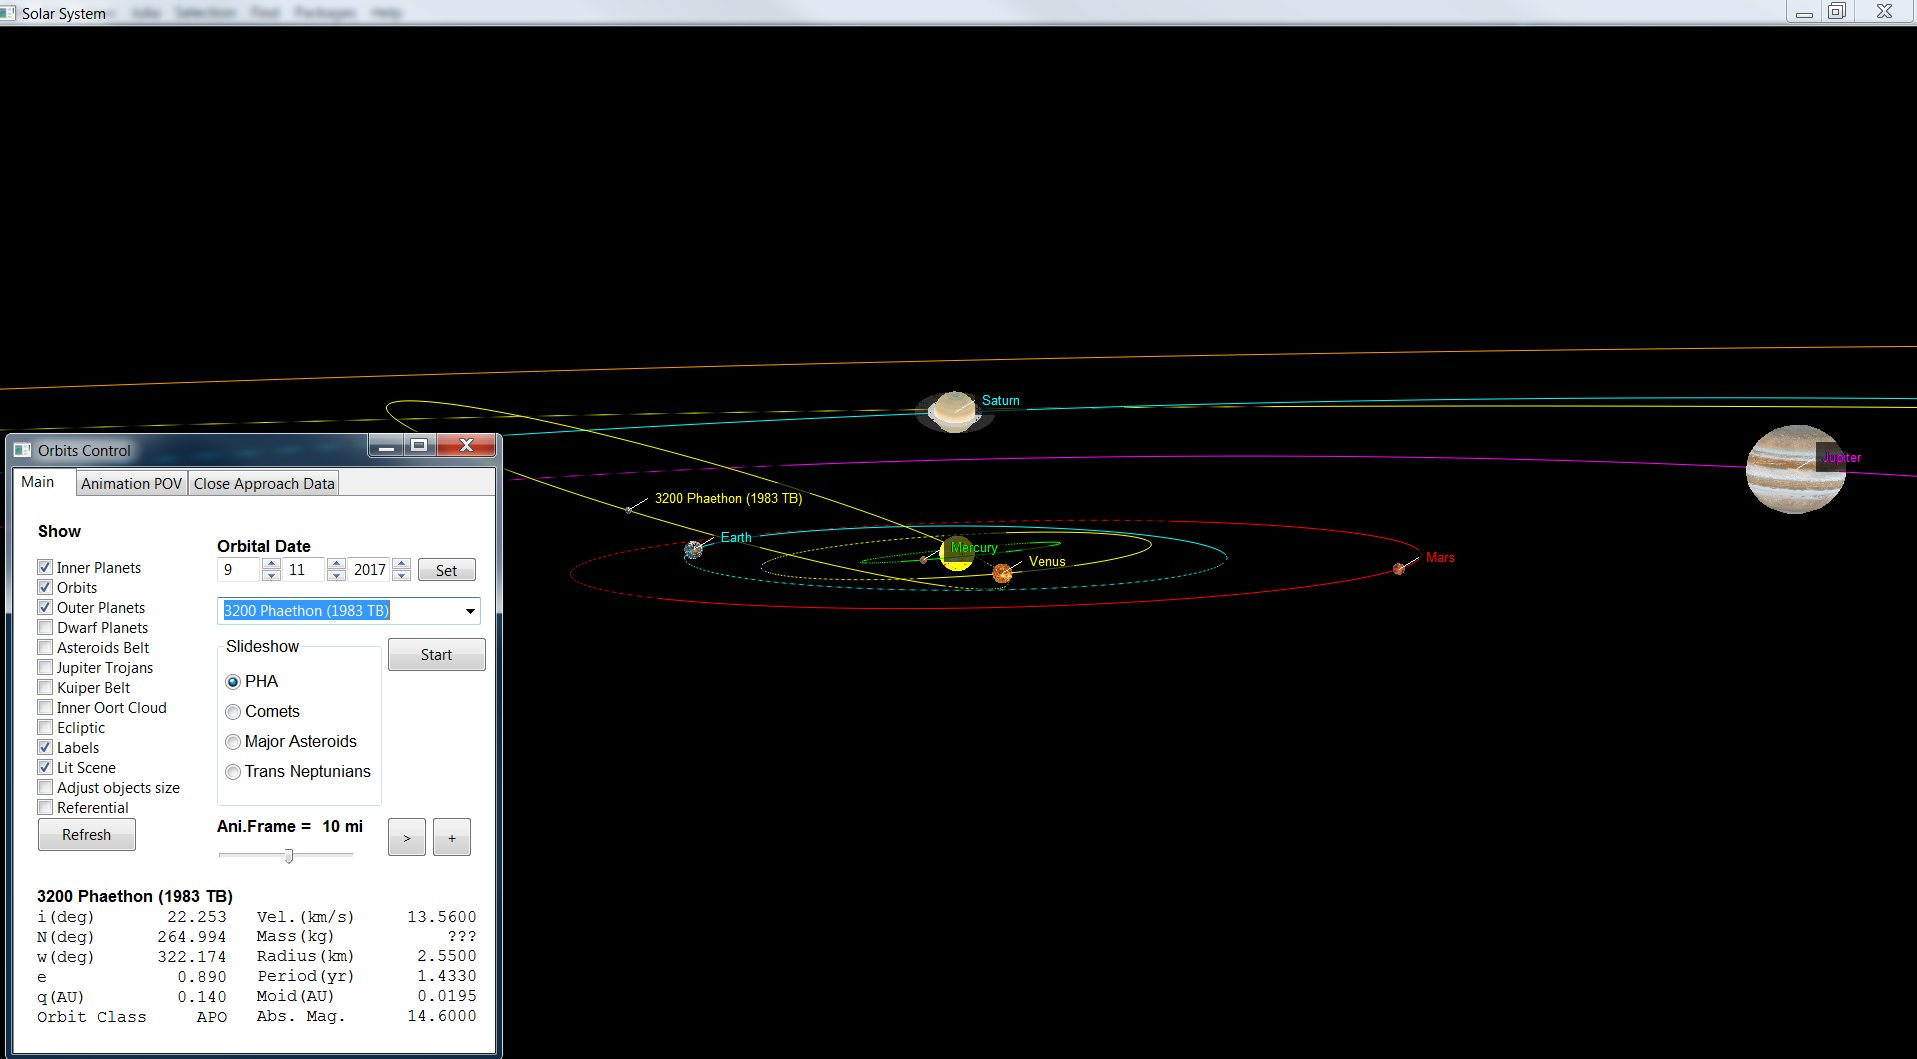
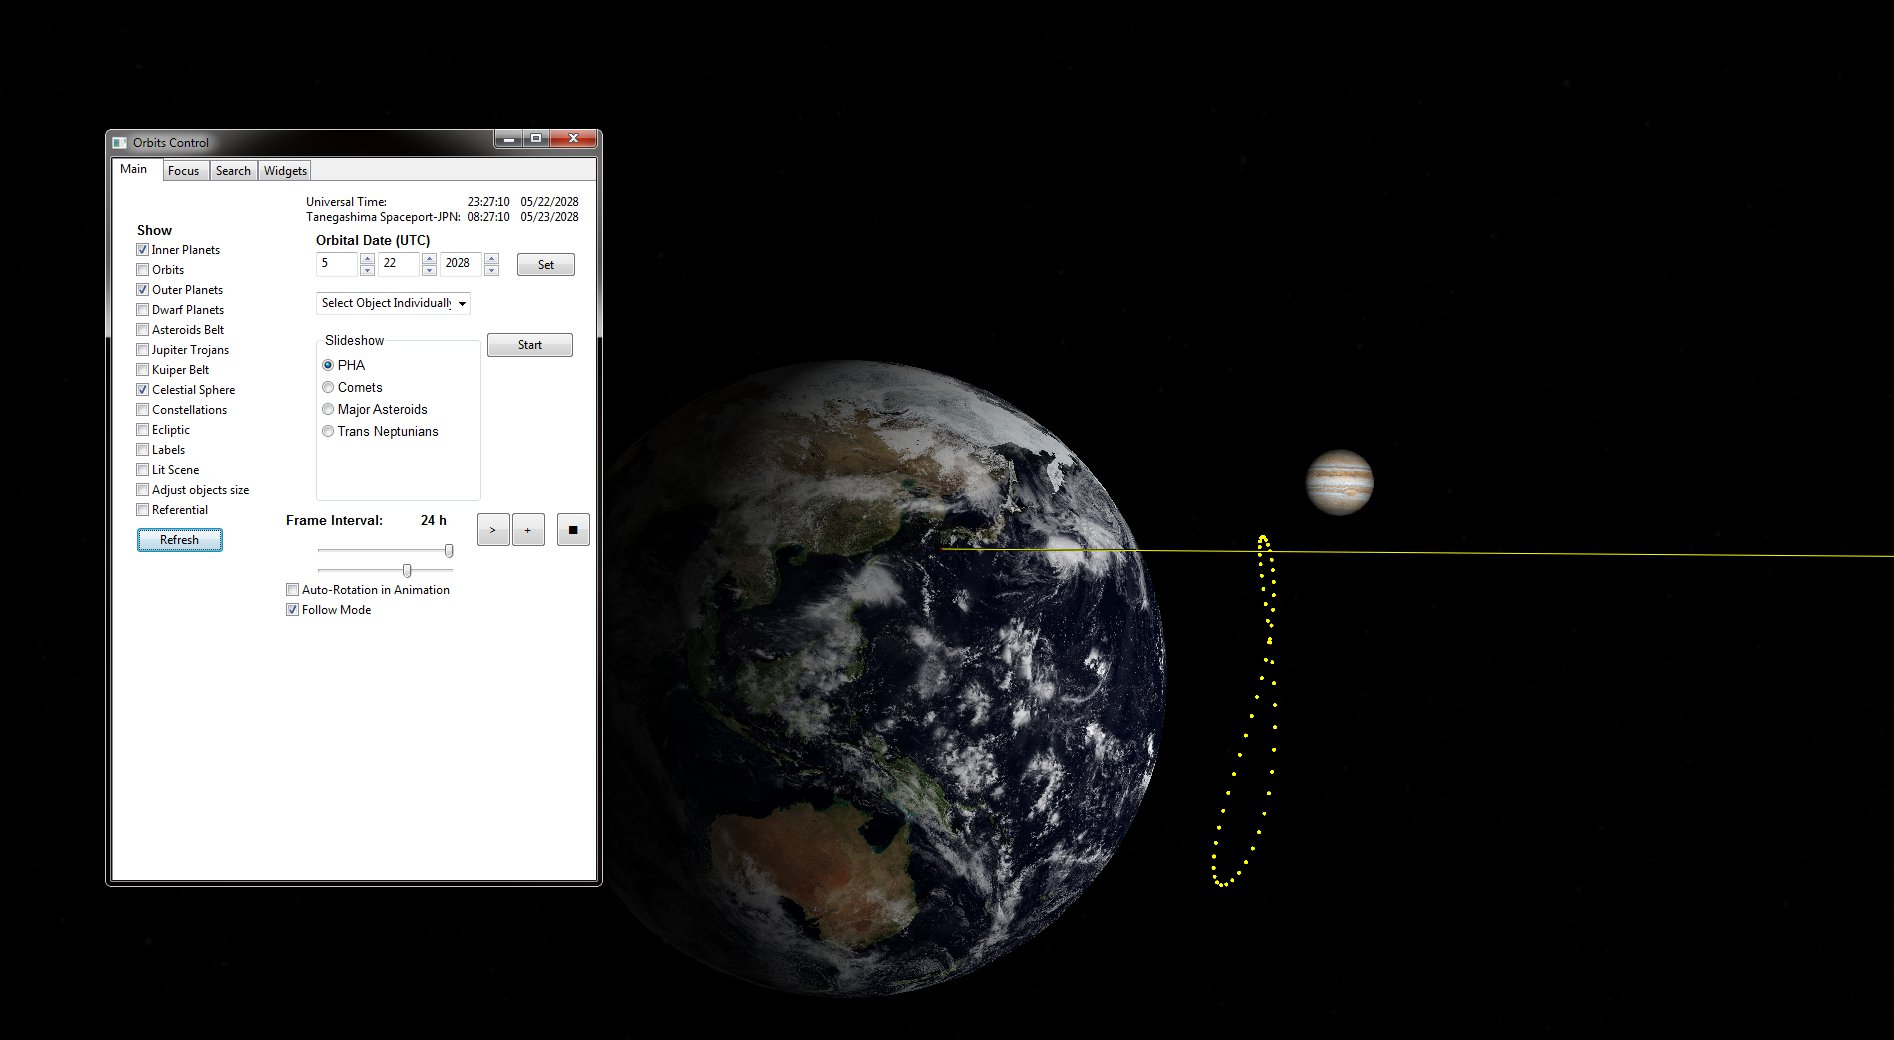
updated readme with latest changes

diff --git a/README.md b/README.md
@@ -1,29 +1,29 @@
 # Orbital
 
-"Orbital" is an accurate interactive 3D representation of the solar system featuring inner and outer planets, asteroids, comets and Trans-Neptunian objects. It also includes the asteroid belt, Jupiter Trojans, Kuiper belt, the inner Oort cloud and daily "Close Approach" bodies from the Jet Propulsion Laboratory database.
+"Orbital" is an accurate interactive 3D representation of the solar system featuring inner and outer planets, asteroids, comets and Trans-Neptunian objects. It also includes the asteroid belt, Jupiter Trojans, Kuiper belt, the celestial sphere and a constellations map. 
 
-The 3D orbits of major objects in the solar system are rendered and can be zoomed in and out as well as rotated. Each object is located on its actual orbit position at the time of rendering. For a demo of the simulation go to https://youtu.be/WjiwySvZY3g. (Note: When the video was made, body rotation was not implemented yet, hence you won't see the planets spinning, but this repository includes the code that implements body rotation).
+The 3D orbits of the major planets are rendered and because the window is interactive, the user can zoom in and out as well as rotate the scene. Each object is located on its actual orbit position at the time of rendering. For a demo of the simulation go to https://youtu.be/WjiwySvZY3g. (Note: When the video was made, body rotation was not implemented yet, hence you won't see the planets spinning, but this repository includes the code that implements body rotation).
 
 # Interacting with the simulation:
 
 To zoom in/out: click on both mouse buttons and drag the mouse forward or backward.
 To rotate the scene: click on the mouse left button only and drag the mouse sideways.
 
-The data was collected from the JPL Small-Body Database Search Engine and the Nasa planetary factsheets. The Celestial mechanic concepts required to develop this program can be found in the Roger Bates's book "Introduction to Astrodynamics", as well as the document "Keplerian Elements for Approximate Positions of the Major Planets" (E.M. Standish from JPL Caltech).
+Objects listed in the drop down were collected from the JPL Small-Body Database Search Engine and the Nasa planetary factsheets. The Celestial mechanics concepts required to develop this program can be found in the Roger Bates's book "Introduction to Astrodynamics", as well as the document "Keplerian Elements for Approximate Positions of the Major Planets" (E.M. Standish from JPL Caltech).
 
 Keep in mind that
 
-	- All distances between each object and the sun are proportional to the actual distance.
+	- Distances between each object and the sun are proportional to the actual distance.
 	- Objects sizes are NOT proportional to their actual size (this is by design in order to
 	  view all objects properly).
-	- Asteroid belt, Kuiper belt, Jupiter Trojans and Oort Cloud are included for illustration purpose
+	- Asteroid belt, Kuiper belt, Jupiter Trojans are included for illustration purpose
 	  only. Even though their size and thickness is somehow proportional to their actual dimension, the
 	  distribution pattern within the belt is purely random/aesthetic.
 
 # Platform:
 
 	python 2.7.9
-	vpython 6
+	vpython 6.5
 	wxpython 3.0
 
 you will also need the following libraries:
@@ -33,7 +33,7 @@ you will also need the following libraries:
 
 To launch the application, go to the folder where the project was downloaded and type:
 
-	> python2.7.exe solarsys.py
+	> python2.7.exe orbital.py
 
 The vpython display window and the Orbital control modal window will take only a few seconds to load. PHA, Asteroids, Comets and trans-Neptunian objects orbits get calculated and rendered as needed, but inner and outter planets orbits are displayed right away and can be interacted with. The constant MAX_OBJECTS in solarsys.py specifies the upper limit of objects to load per data file.
 
@@ -66,27 +66,39 @@ Legend is:
 
 You have the ability to change the Point Of View (POV) to reset the center of the scene on any object of your choice. By default, the POV is focused on the Sun, but it can be set on any of the major inner / outer planets, the dwarf planets - or - on the body that you are currently studying.
 
-<img src="./screenshot-3.jpg">
+<img src="./screenshot-2.jpg">
 
-# Files:
-
-	solarsys.py: 	Main file
-	orbital.py:  	Orbits trajectory and belts calculations classes
-	controls.py:	Orbital controller class used in the "Orbital Control" user interface
-	planetsdata.py:	Orbital elements for major planets and belts
-	numberfmt: 	String precision formatting
+# Main Files:
+```text
+orbital.py ....................... Orbital entry point
+celestial/__main__.py ............ bootloader
+celestial/camera.py .............. Camera movements
+celestial/controls.py ............ Orbital controller class used in the "Orbital Control" user interface
+celestial/location.py ............ Earth location functions
+celestial/numberfmt.py ........... String precision formatting
+celestial/objects.py ............. Library of 3D objects
+celestial/orbit3D.py ............. Orbit trajectories and belts calculations classes
+celestial/orbitalLIB.py .......... library class allowing to create an animation (story) programmatically
+celestial/planetsdata.py ......... Orbital elements for major planets and belts
+celestial/rate_func.py ........... Rate functions defined for animations
+celestial/referentials.py ........ Planet Referentials classes
+celestial/utils.py ............... Linear Algebra utility functions
+celestial/video.py ............... Animation recording class
+celestial/vpython_interface.py ... Modifies vpython "display" class
+celestial/widgets.py ............. Earth widgets classes
+```
 
 # Close Approach Data:
 
-"Orbital" allows you to find out which asteroids "close encounters" with earth are happening on a daily basis. If you click on the "Close Approach Data" tab, you will be able to directly fetch from the JPL database the list of objects that are at their closest position to earth for the current day.
+"Orbital" allows you to find out which asteroids "close encounters" with earth are happening on a daily basis. If you click on the "Search" tab, the "Close Approach Data" section will directly fetch from the JPL database the list of objects that are at their closest position to earth for the current day (If you would rather look for information on a particular object, use the Search input field in the lower section).
 
-<img src="./screenshot-2.jpg">
+<img src="./screenshot-3.jpg">
 
 Once the list has been downloaded, you may also get the list from the previous or the next day. Double clicking on a row in that list will automatically display the orbit and position of the corresponding object, as well as switch back to the "Main" tab to detail its orbital elements.
 
 Note: The autoscale feature in vpython is a bit erratic. If you are in a very expansive view that includes far objects such as dwarf planets and also closer to the sun objects like inner planets, unchecking the far objects and refreshing the scene may "autoscale" you back inside the sun (even though everything looks black). To eliminate the problem, simply perform a zoom out.
 
-The planets and the sun rotate on their axis in a realistic way, according to their rotation rate. You may note that Venus and Pluto have a retrograde motion and it is because of their north pole reversion. A good way to clarify what is happening is to check the "Show Local Referential" checkbox in the"Animation POV" tab. Also note the great range of rotation rate among the planets, from really fast (the outter planets) to really slow (Venus).
+The planets and the sun rotate on their axis in a realistic way, according to their rotation rate. You may note that Venus and Pluto have a retrograde motion and it is because of their north pole reversion. A good way to clarify what is happening is to check the "Show Local Referential" checkbox in the"Animation POV" tab. Also note the great range of rotation rates among the planets, from really fast (the outter planets) to really slow (Venus).
 
 List of a few close encounters between Potentially Harzardous Asteroids and earth:
 
@@ -96,22 +108,51 @@ List of a few close encounters between Potentially Harzardous Asteroids and eart
 	2004 XK50 	12/24/2025
 
 
-# How to install the platform on Windows computer:
+# How to install 
+Orbital creates graphics though the vpython module. because *vpython* has evolved into a web based system, support for the standalone version has been neglected and never got uograded to be compatible with python3.x. Instead python2.7 must be used. 
 
-	1) Install python2.7 64 bits:
-	go to "https://www.python.org/downloads/release/python-279/" and under "Files",
-	click on "Windows x86-64 MSI installer". Download the installer and run it.
+### on Windows computer:
 
-	use the default install configuration. Your python folder should be
-	in c:\python27
+Install python2.7 64 bits:
 
-	If you get the error "error: Microsoft Visual C++ 9.0 is required. Get it from http://aka.ms/vcpython27"
-	then from "https://www.microsoft.com/en-us/download/confirmation.aspx?id=44266" download the VC runtime
-	installer: VCForPython27.msi and run it to install the missing runtime library. Then try to run the python27
-	installer again to finish installing python.
+go to "https://www.python.org/downloads/release/python-279/" and under "Files",
+click on "Windows x86-64 MSI installer". Download the installer and run it.
 
-	Add "c:\python27" and "c:\python27\scripts" to your PATH environment variable
+use the default install configuration. Your python folder should be
+in **c:\python27**
 
+If you get the error "error: Microsoft Visual C++ 9.0 is required. Get it from http://aka.ms/vcpython27"
+then from "https://www.microsoft.com/en-us/download/confirmation.aspx?id=44266" download the VC runtime
+installer: VCForPython27.msi and run it to install the missing runtime library. Then try to run the python27
+installer again to finish installing python.
+
+Add *c:\python27* and *c:\python27\scripts* to your **PATH** environment variable
+
+For hassle free install, it is recommended to do the manual installation instead of using the pip command. This 
+will garantee to install libraries compatible with python 2.7 and vpython 6.5. Simply go to the "manual-install" folder:
+```text
+vis.zip
+Polygon.zip
+cv2.zip
+numpy.zip
+pyautogui.zip
+pytz.zip
+vpython.zip
+wx-python-3.0-msw.zip
+```
+Then unzip each package into the python2.7 **site-packages** folder. 
+
+Create an environment variable **PYTHONPATH** that contains the absolute path to the cvisual.pyd file. Assuming python2.7 is installed in c:\python2.7, that would be:
+
+**PYTHONPATH=c:\python2.7\Lib\site-packages\visual_common**
+
+To start the simulation, from the orbital folder type:
+
+```text
+c:\python2.7\python orbital.py
+```
+
+<!--
 	2) Install Numpy and Scipy libraries:
 	go to http://www.lfd.uci.edu/~gohlke/pythonlibs
 	- download numpy+mkl: "numpy-1.13.1+mkl-cp27-cp27m-win_amd64.whl"
@@ -138,7 +179,7 @@ List of a few close encounters between Potentially Harzardous Asteroids and eart
 	Once downloaded, run it. This installer will also install the wxPython 3.0 library.
 	That's it!
 
-# How to install on a Mac
+### on a Mac
 
 	If you already have a version of VPython 6, it's a good idea to uninstall it before installing
 	the new VPython 6.11. (If you have VPython 5 installed, you need to delete the old folders visual,
@@ -155,6 +196,7 @@ List of a few close encounters between Potentially Harzardous Asteroids and eart
 	one from python.org.
 
 	Open the VPython installer (Doubleclick VPython-Mac-Py2.7-6.11.pkg.)
+-->
 
 
 Enjoy the simulation!
